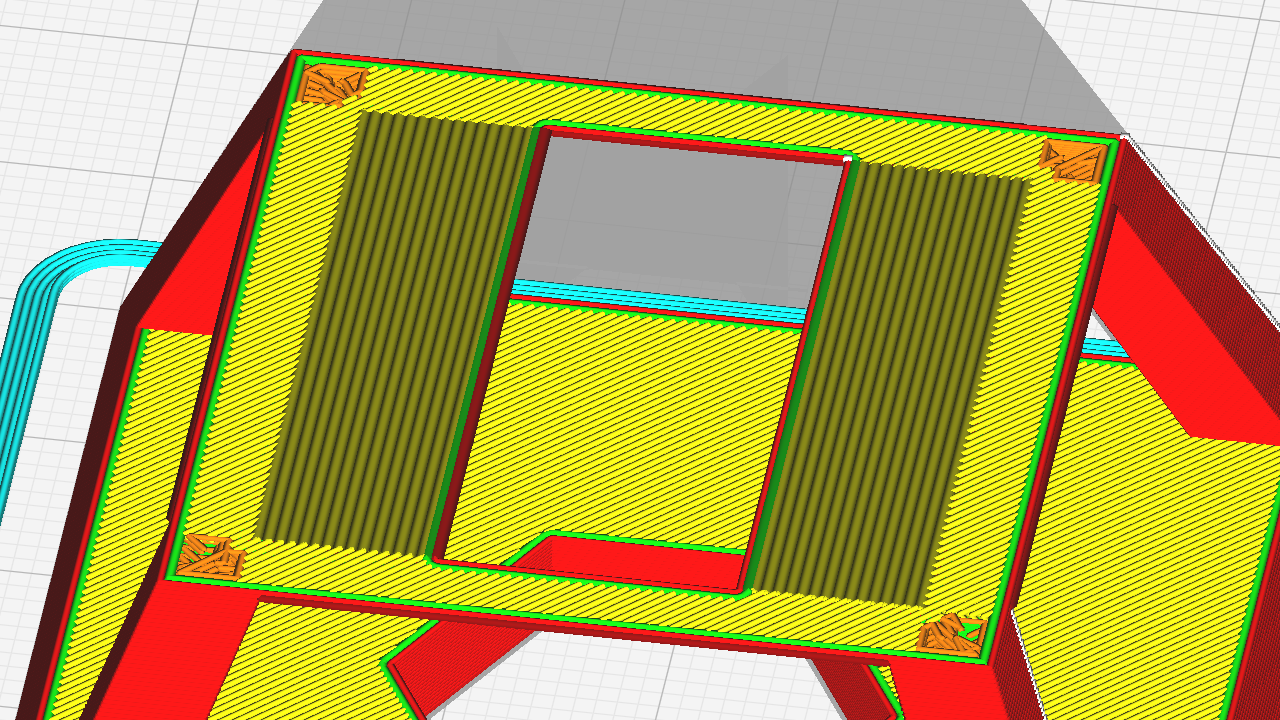
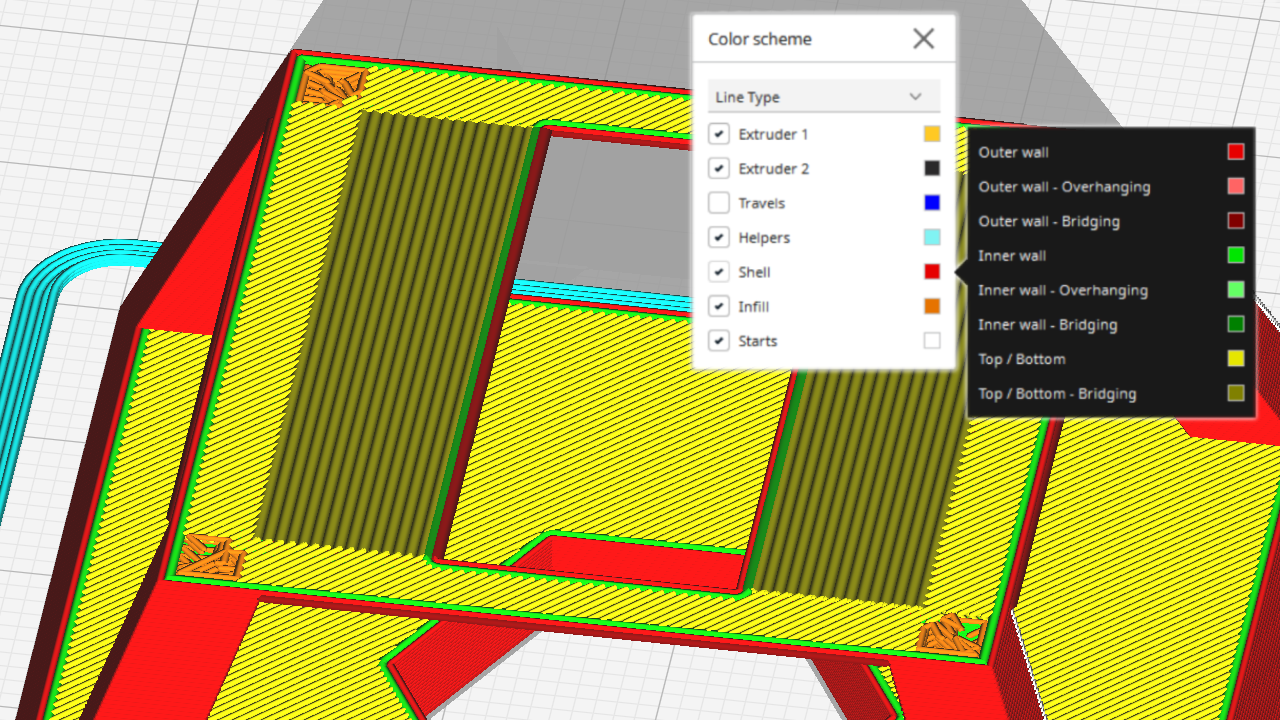
514 Whatsnew Stable mprovements
Contributes to CURA-13387 small improvements for stable

Changed region(s): [[0.5312, 0.0, 1.0, 0.6111]]

diff --git a/cura/resources/texts/whats_new/3.html b/cura/resources/texts/whats_new/3.html
@@ -1,2 +1,2 @@
 <h4>Improved bridging strategies</h4>
-<p>Bridging and overhanging lines are now highlighted in the preview with their own distinct color. This improvement let us fine-tune bridging behavior, ensuring it activates precisely when needed to maintain the highest visual quality for your prints in any scenario.</p>
+<p>Bridging and overhanging lines are now highlighted in the preview with their own distinct color. This improvement let us fine-tune bridging behavior, ensuring it activates precisely when needed to maintain the highest visual quality for your prints in any scenario. To view the color legend, simply hover over the red indicator next to 'shell'.</p>

diff --git a/cura/resources/texts/whats_new/4.html b/cura/resources/texts/whats_new/4.html
@@ -1,0 +1,2 @@
+<h4>Maximize your workflow with UltiMaker hardware </h4>
+<p>Pair Cura 5.14 with an UltiMaker printer for a zero-friction ecosystem featuring pre-configured material profiles and seamless one-click fleet management. <a href="https://ultimaker.com/3d-printers/compare-3d-printers/?utm_source=cura&utm_medium=software&utm_campaign=whats_new_514">Find your next 3D Printer by taking our quiz</a> </p>
